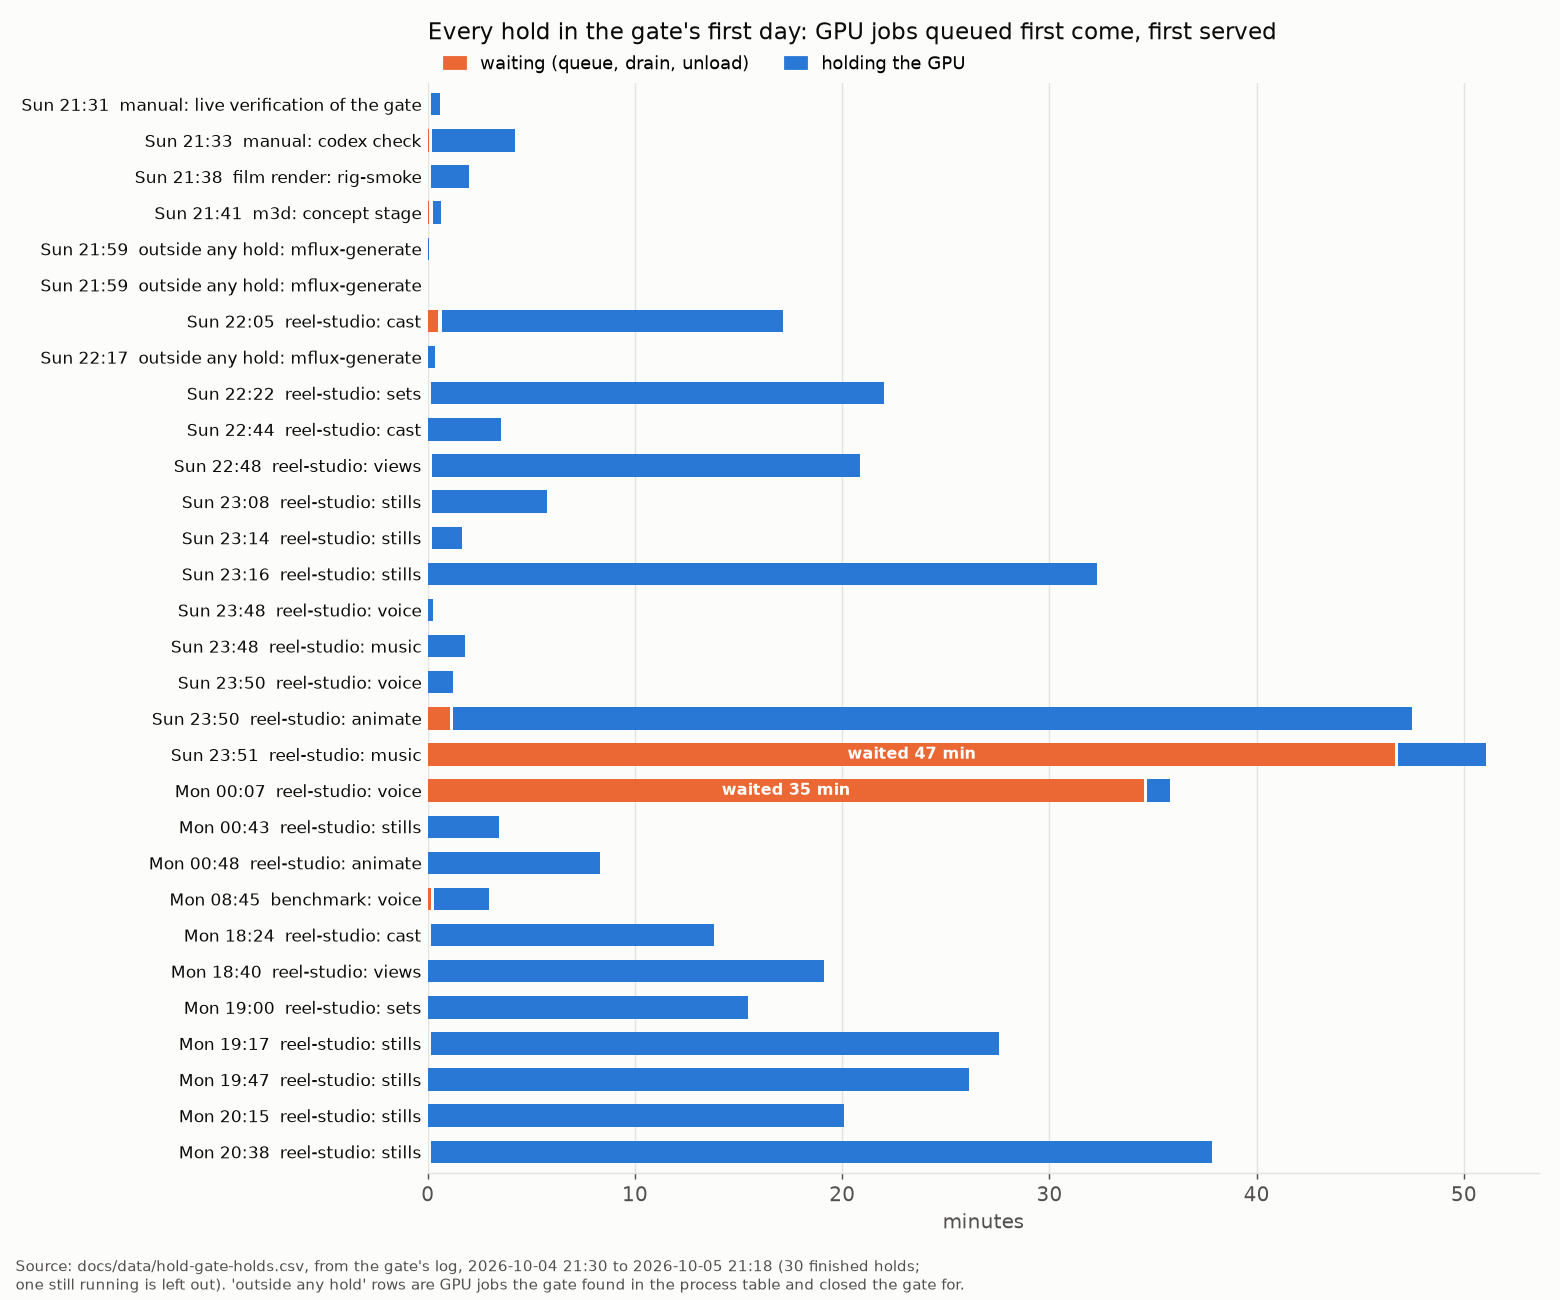
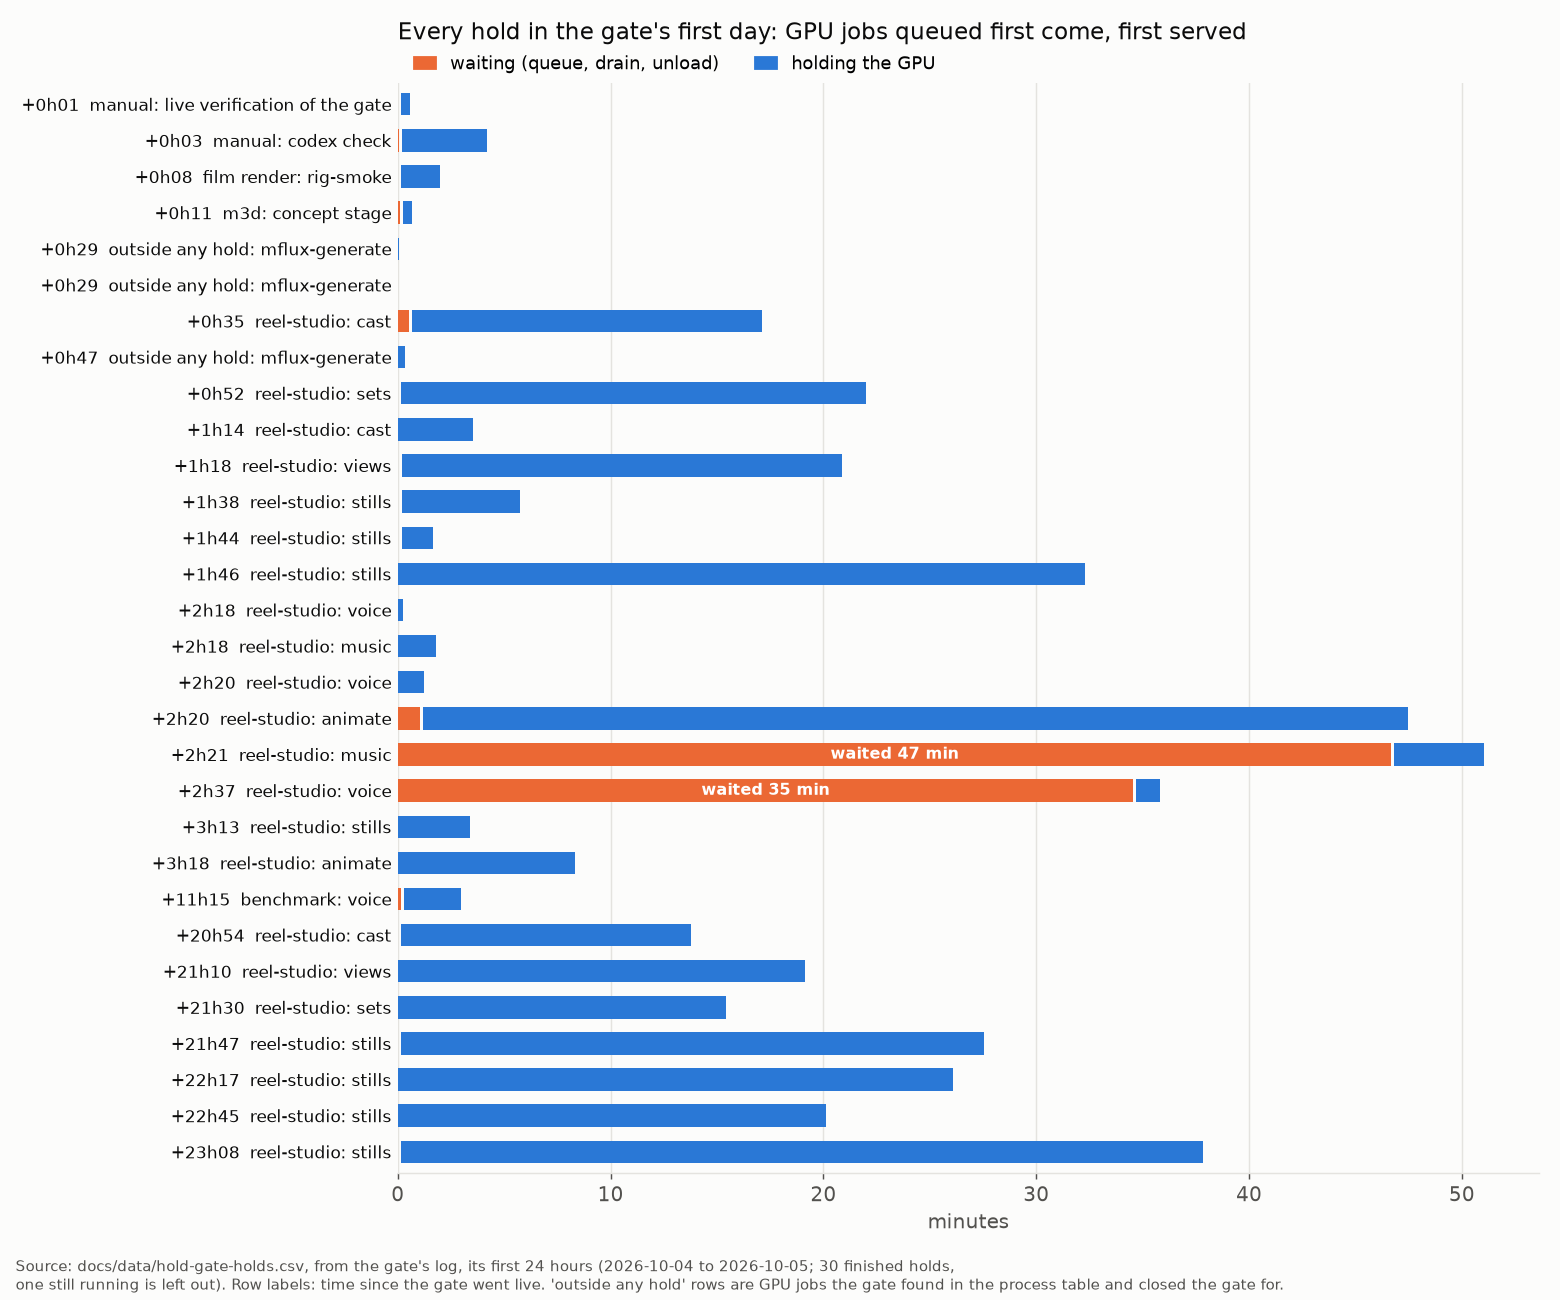
Remove process docs and private references

diff --git a/extensions/hold.ts b/extensions/hold.ts
@@ -7,16 +7,16 @@
 // not, waits with a status line, then sends the call the moment the hold ends. Nothing is lost and nothing needs
 // re-sending: a message typed during a 40-minute render simply goes out after it.
 //
-// Why here and not only in film-rig.ts: film-rig's hook only knew LTX renders and only ran in sessions that load
+// Why here and not only in the film rig's pi hook: that hook only knew LTX renders and only ran in sessions that load
 // it; the rule (2026-10-04) is that nothing may force the model back while the GPU is deliberately held, for
-// any session and any reason (renders, m3d, `hold on`). Sessions on other providers (cloud models, a ds4-serve
-// engine on :8000) never wait. If the gate does not answer, the call goes ahead: the gate's own refusal (and pi's
+// any session and any reason (renders, m3d, `hold on`). Sessions on other providers (cloud models, an engine
+// run by itself on :8000) never wait. If the gate does not answer, the call goes ahead: the gate's own refusal (and pi's
 // retry, which comes back through this hook) is the backstop.
 //
 // Compaction calls the model directly, outside the agent loop, so session_before_compact waits the same way.
 //
-// Symlinked into ~/.pi/agent/extensions/ (global); the film rig's director launcher (local-video, rig/film-pi.sh)
-// loads it explicitly next to film-rig.ts.
+// Symlinked into ~/.pi/agent/extensions/ (global); the film rig's director launcher (in local-video) loads it
+// explicitly next to its own extension.
 import type { ExtensionAPI, ExtensionContext } from "@earendil-works/pi-coding-agent";
 import * as path from "node:path";
 

diff --git a/docs/charts/make_charts.py b/docs/charts/make_charts.py
@@ -7,13 +7,12 @@
 
     docs/charts/make_charts.py          # writes docs/media/hold-live-checks.png and hold-first-day.png
 
-The CSVs are the hold gate's own log (~/.ds4/hold-gate.log) from 2026-10-04 21:30 to 2026-10-05 21:18, reduced to
-one row per hold, refusal and unload, with job names shortened and per-machine details removed.
+The CSVs are the hold gate's own log for its first 24 hours (2026-10-04 to 2026-10-05), reduced to one row per hold,
+refusal and unload, with job names shortened and per-machine details removed. Times are seconds since the gate went
+live (columns ending in _s), not clock times.
 """
 import csv
 import pathlib
-from datetime import datetime, timedelta
-
 import matplotlib
 
 matplotlib.use("Agg")
@@ -35,7 +34,7 @@ plt.rcParams.update({
 
 
 def when(s):
-    return datetime.fromisoformat(s) if s else None
+    return float(s) if s else None  # seconds since the gate went live
 
 
 def rows(name):
@@ -43,9 +42,9 @@ def rows(name):
         return list(csv.DictReader(f))
 
 
-holds = [dict(r, requested=when(r["requested"]), granted=when(r["granted"]), released=when(r["released"]))
+holds = [dict(r, requested=when(r["requested_s"]), granted=when(r["granted_s"]), released=when(r["released_s"]))
          for r in rows("hold-gate-holds.csv")]
-refusals = [dict(r, time=when(r["time"])) for r in rows("hold-gate-refusals.csv")]
+refusals = [dict(r, time=when(r["t_s"])) for r in rows("hold-gate-refusals.csv")]
 
 
 def style(ax):
@@ -56,10 +55,9 @@ def style(ax):
     ax.set_axisbelow(True)
 
 
-# ---------- 1. the live checks, 2026-10-04 21:30-21:42 ----------
+# ---------- 1. the live checks, the gate's first 12 minutes ----------
 live = holds[:4]
-t0 = datetime(2026, 10, 4, 21, 30)
-sec = lambda t: (t - t0).total_seconds()
+sec = lambda t: t
 # The two pi answers are not in the gate's log (pi does not report to it); docs/hold.md records them: a prompt sent
 # during the first manual hold answered 9 s after `hold off`, one sent mid-render answered 17 s after the release.
 answers = {0: 9, 2: 17}
@@ -71,7 +69,7 @@ for i, h in enumerate(live):
     y = len(live) - 1 - i
     ax.barh(y, sec(h["granted"]) - sec(h["requested"]), left=sec(h["requested"]), height=0.5, color=WAIT)
     ax.barh(y, sec(h["released"]) - sec(h["granted"]), left=sec(h["granted"]), height=0.5, color=HELD)
-    held = (h["released"] - h["granted"]).total_seconds()
+    held = h["released"] - h["granted"]
     mins = f"{int(held // 60)}m{int(held % 60):02d}s" if held >= 60 else f"{int(held)} s"
     ax.text(sec(h["released"]) + 6, y + 0.3, f"held {mins}", va="center", color=INK2, fontsize=10)
     for r in refusals:
@@ -83,10 +81,10 @@ for i, h in enumerate(live):
         ax.text(t + 6, y - 0.22, f"pi answers +{answers[i]} s", va="center", color=INK, fontsize=10)
 ax.set_yticks(range(len(live)), names[::-1])
 ticks = range(0, 13 * 60, 60)
-ax.set_xticks(list(ticks), [f"21:{30 + m // 60:02d}" for m in ticks])
+ax.set_xticks(list(ticks), [f"{m // 60}" for m in ticks])
 ax.set_xlim(40, 12 * 60 + 30)
 ax.set_ylim(-0.6, len(live) - 0.4)
-ax.set_xlabel("2026-10-04, local time")
+ax.set_xlabel("minutes since the gate went live (2026-10-04)")
 ax.set_title("The hold gate's live checks: nothing reached the model while held", loc="left", color=INK,
              fontsize=13, pad=44)
 ax.legend(handles=[Patch(color=WAIT, label="drain + unload (request → grant)"),
@@ -108,14 +106,15 @@ style(ax)
 labels = []
 for i, h in enumerate(done):
     y = len(done) - 1 - i
-    wait = (h["granted"] - h["requested"]).total_seconds() / 60
-    held = (h["released"] - h["granted"]).total_seconds() / 60
+    wait = (h["granted"] - h["requested"]) / 60
+    held = (h["released"] - h["granted"]) / 60
     ax.barh(y, wait, height=0.62, color=WAIT)
     ax.barh(y, held, left=wait + (0.15 if wait else 0), height=0.62, color=HELD)
     if wait >= 5:
         ax.text(wait / 2, y, f"waited {wait:.0f} min", va="center", ha="center", color="white", fontsize=9,
                 fontweight="bold")
-    labels.append(f"{h['requested']:%a %H:%M}  {h['label']}")
+    m = int(h["requested"] // 60)
+    labels.append(f"+{m // 60}h{m % 60:02d}  {h['label']}")
 ax.set_yticks(range(len(done)), labels[::-1], fontsize=9.5)
 ax.set_ylim(-0.6, len(done) - 0.4)
 ax.set_xlabel("minutes")
@@ -124,8 +123,8 @@ ax.set_title("Every hold in the gate's first day: GPU jobs queued first come, fi
 ax.legend(handles=[Patch(color=WAIT, label="waiting (queue, drain, unload)"),
                    Patch(color=HELD, label="holding the GPU")],
           loc="upper left", bbox_to_anchor=(0, 1.04), ncol=2, frameon=False, fontsize=10, handlelength=1.2)
-fig.text(0.01, 0.008, f"Source: docs/data/hold-gate-holds.csv, from the gate's log, 2026-10-04 21:30 to 2026-10-05 21:18 "
-         f"({len(done)} finished holds;\none still running is left out). 'outside any hold' rows are GPU jobs the gate found in the "
+fig.text(0.01, 0.008, f"Source: docs/data/hold-gate-holds.csv, from the gate's log, its first 24 hours (2026-10-04 to 2026-10-05; "
+         f"{len(done)} finished holds,\none still running is left out). Row labels: time since the gate went live. 'outside any hold' rows are GPU jobs the gate found in the "
          "process table and closed the gate for.", color=INK2, fontsize=8.5)
 fig.tight_layout(rect=(0, 0.035, 1, 1))
 fig.savefig(MEDIA / "hold-first-day.png")

diff --git a/hold/procs.go b/hold/procs.go
@@ -90,7 +90,7 @@ var stillPath = regexp.MustCompile(`/local-video/bin/still$`)
 // gpuJob names the GPU program a command line runs, or "". It reads the program being run (the first few non-flag
 // argv items, so `zsh stories/story.sh`, `python -m ltx_pipelines` and `/usr/bin/time -l hy3d generate` are found),
 // never a word anywhere in the arguments, the way m3d's is_gpu_job does. Long-running servers (ComfyUI, mlx-serve,
-// the dictation daemon) are left out on purpose: alive is not busy, and an idle server must not keep the LLM off.
+// a dictation daemon) are left out on purpose: alive is not busy, and an idle server must not keep the LLM off.
 func gpuJob(cmd string) string {
 	argv := strings.Fields(cmd)
 	if len(argv) == 0 {

diff --git a/tools/codex-smoke.py b/tools/codex-smoke.py
@@ -9,7 +9,7 @@ containing "rig-ok", cat it, and report what it printed. A model passes when the
 file is right AND its final answer quotes it. That takes at least two tool calls
 and three requests, so it also exercises Codex replaying the model's earlier
 reasoning and tool output, which a one-shot curl never does (see "Verify through
-pi, never curl" in AGENTS.md; the same applies to Codex).
+the agent, never curl" in the README; the same applies to Codex).
 
 Runs `codex exec` against a throwaway CODEX_HOME holding only the provider and
 model catalog read from ~/.codex/config.toml, so test sessions stay out of the

diff --git a/hold/gate.go b/hold/gate.go
@@ -12,7 +12,7 @@ package main
 // llama-swap, and only then is granted; holds queue first come, first served. A hold dies with its processes (pid
 // plus start time, checked every ScanEvery), so a crashed job cannot keep the LLM off. Why: the rule of
 // 2026-10-04 is that nothing may bring the model back while the GPU is deliberately held, for every client (pi,
-// Codex, LDR, curl), not just pi's film-rig hook, which only knew LTX renders.
+// Codex, LDR, curl), not just the film rig's pi hook, which only knew LTX renders.
 
 import (
 	"context"

diff --git a/README.md b/README.md
@@ -5,7 +5,7 @@ reloading into a video render, and a serial plan → code → verify → review 
 
 ![A real terminal session on 2026-10-05: hold status shows a reel render holding the GPU; a chat-completions request to the gate gets 503 Service Unavailable with Retry-After 30; /running shows nothing loaded before and after; the gate's log records the refusal](docs/media/hold-live-session.svg)
 
-*A real session, replayed: on 2026-10-05 at 21:42 a [reel-studio](https://github.com/mthomas100/reel-studio)
+*A real session, replayed: on 2026-10-05 a [reel-studio](https://github.com/mthomas100/reel-studio)
 render held the GPU. A request that would have loaded an 80 GiB model got a 503 naming the holder, and nothing was
 loaded. Captured output: [docs/data/live-held-session-2026-10-05.txt](docs/data/live-held-session-2026-10-05.txt);
 SVG drawn by [make_terminal_svg.py](docs/charts/make_terminal_svg.py), no text reworded.*
@@ -142,9 +142,10 @@ What makes it robust rather than just a lock:
 
 ![Every hold in the gate's first day as horizontal bars: time waiting in the queue or for the drain and unload, then time holding the GPU; two reel-studio jobs waited 47 and 35 minutes](docs/media/hold-first-day.png)
 
-*Every hold from the gate's log, 2026-10-04 21:30 to 2026-10-05 21:18 ([data](docs/data/hold-gate-holds.csv)).
-The unload before a grant took 0.2 to 7.7 s ([data](docs/data/hold-gate-unloads.csv)). One caveat the log shows: at 22:05,
-during a 31 s drain, eight pi calls were refused (they retried) rather than waiting. A pi session waits only once it
+*Every hold from the gate's log in its first 24 hours, 2026-10-04 to 2026-10-05, timed from the moment it went live
+([data](docs/data/hold-gate-holds.csv)). The unload before a grant took 0.2 to 7.7 s
+([data](docs/data/hold-gate-unloads.csv)). One caveat the log shows: 35 minutes in, during a 31 s drain, eight pi
+calls were refused (they retried) rather than waiting. A pi session waits only once it
 has loaded `hold.ts`; sessions already open when the gate went in need `/reload`.*
 
 The CLI:
@@ -199,8 +200,8 @@ for review). Those rows have since been replaced by the pairing shown above, whi
 ## One model registry, generated configs
 
 Every model is one row in a registry: 11 pipe-separated fields (`target|engine|family|ctx|trust|dl|label|use|gguf|vision|drafter`)
-plus optional launch arguments. On the author's Mac the registry lives in `ds4-serve`, a launcher script in a local
-ds4 checkout; anywhere else, point `RIG_SPEC` at a file in the same format ([example](examples/registry.example)).
+plus optional launch arguments. On the author's Mac a model launcher script (not part of this repo) prints it; anywhere
+else, point `RIG_SPEC` at a file in the same format ([example](examples/registry.example)).
 Two generators derive everything else from it, so there is never a second model list to drift:
 
 - [`tools/gen-swap-config.sh`](tools/gen-swap-config.sh) writes `config/llama-swap.yaml`: commands per engine,
@@ -252,7 +253,7 @@ git clone https://github.com/mthomas100/local-rig ~/repos/local-rig
 cd ~/repos/local-rig
 git config core.hooksPath hooks
 
-# 1. describe your models (or use ds4-serve's registry via DS4_DIR)
+# 1. describe your models
 cp examples/registry.example my-registry      # edit: your GGUF paths, contexts, trust
 export RIG_SPEC=$PWD/my-registry DS4_DIR=~/repos/ds4   # DS4_DIR: where ds4-server, llama-server and gguf/ live
 
@@ -310,20 +311,18 @@ all pass
 
 ## Status and limitations
 
-- **One machine, in daily use.** The gate has been live on the author's Mac since 2026-10-04 21:30. It is not a
+- **One machine, in daily use.** The gate has been live on the author's Mac since 2026-10-04. It is not a
   general product: the GPU-job patterns in [`hold/procs.go`](hold/procs.go) name the author's tools (ltx-2-mlx,
   vidgen, mflux, hy3d, m3d stages). Edit `gpuJob()` for yours.
 - **`hold wait --timeout` rounds up to the gate's 30 s long poll:** `--timeout 5s` returned after 30.1 s on
   2026-10-05.
 - **macOS only.** Process liveness reads `ps -o lstart=`; the launchd jobs are macOS.
-- **The registry script is not included.** `ds4-serve` lives in a private ds4 checkout; `RIG_SPEC` plus
+- **Bring your own registry.** The author's model launcher is not part of this repo; `RIG_SPEC` plus
   `examples/registry.example` stand in for it. ds4-specific flags in the generator assume ds4's `ds4-server`.
 - **Codex and other non-pi clients are refused, not queued.** They see a 503 with `Retry-After: 30`; Codex retries.
   pi sessions opened before `hold.ts` was linked need `/reload` to wait instead.
 - **The gate's own restart cuts streams** that pass through it; restart only while `hold status` says open.
 - **/pcv timing** was measured once, on 2026-09-12, with models that have since been replaced.
-- Not included in this repo: a model-wiring skill for the author's machine, the web-research benchmark, and the
-  internal design brief the rig was built from.
 
 ## Related repos
 

diff --git a/docs/hold.md b/docs/hold.md
@@ -1,7 +1,7 @@
 # hold — one lock for this Mac's GPU (2026-10-04)
 
-**Status: live since 2026-10-04 21:30** (`hold/switch-over.sh in`, at a quiet moment after a film
-render finished). Checked live the same evening, through pi and the real qwen38: a prompt through the
+**Status: live since 2026-10-04** (`hold/switch-over.sh in`, at a quiet moment after a film
+render finished). Checked live the same day, through pi and the real qwen38: a prompt through the
 gate; `hold on` unloaded qwen38, and for 24 s curl and `/upstream/qwen38/logs` got 503, `decide gpu` ([local-decision](https://github.com/mthomas100/local-decision)) and `m3d gpu`
 ([local-3d](https://github.com/mthomas100/local-3d)) reported the hold, llama-swap received 0 model requests and a pi prompt waited, then answered 9 s after `hold off`;
 Codex's `/v1/responses` calls were refused (it retried, honouring Retry-After) and loaded nothing; the 2-clip
@@ -13,7 +13,8 @@ already open need `/reload` (or a restart) to wait instead of being refused.
 
 This Mac can do one heavy thing at a time. A loaded local LLM (qwen38 wires about 80 GiB) and an LTX render, an
 image model or an m3d stage do not fit together, and an LLM prompted beside a render slows it about 9x (film rig,
-2026-09-23). Before this, the only guard was film-rig.ts's pi hook: it held pi's model calls while an LTX render
+2026-09-23). Before this, the only guard was a pi hook in the film rig
+([local-video](https://github.com/mthomas100/local-video)): it held pi's model calls while an LTX render
 process existed. It knew nothing of m3d or of an unload done on purpose, it started only once the render process
 existed (a busy session could reload the model in the gap after the unload and stall the film), and it bound pi
 alone: Codex, Local Deep Research and curl went straight to llama-swap, which loads whatever it is asked for.
@@ -38,14 +39,14 @@ One lock. Model calls share it while it is free; a GPU job (a render, an m3d sta
   instead of queueing behind it: run-queue.sh > story.sh > vidgen > ltx-2-mlx is one hold.
 - **GPU jobs that took no hold** (a render by hand, an old script: ltx-2-mlx, story.sh, run-queue.sh, redo.sh,
   vidgen, bin/still, mflux-generate, hy3d generate/shape/paint, comfy3d.py, skintokens-cli) close the gate too; the
-  model is unloaded once the calls in flight finish. Long-running servers (ComfyUI, mlx-serve, the dictation daemon)
+  model is unloaded once the calls in flight finish. Long-running servers (ComfyUI, mlx-serve, a dictation daemon)
   do not count: alive is not busy.
 - **While held**, the gate checks llama-swap now and then; a model loaded behind its back (someone on :8091) is
   unloaded again.
 
 ## Who waits, who is refused
 
-- **pi** (`extensions/hold.ts`, global, and loaded by `rig/film-pi.sh`): before every model call of a session whose
+- **pi** (`extensions/hold.ts`, global, and loaded explicitly by the film rig's director launcher): before every model call of a session whose
   model is served through the gate, it asks the gate and waits with a status line (`⏸ LLM held · …`). A message
   typed during a 40-minute render goes out by itself when the render ends; a hold taken between two of an agent's
   steps pauses it between them. Sessions on other providers never wait.
@@ -94,4 +95,4 @@ runs the command anyway with a warning (a missing gate also means no model can b
 
 `hold/switch-over.sh out`, or by hand: bootout `com.example.local-rig.hold-gate`, set llama-swap's plist back to
 `--listen 127.0.0.1:8090`, bootstrap it. Every
-client works as before; film-rig.ts and m3d fall back to their own unload-and-settle when `hold` cannot reach a gate.
+client works as before; the film rig and m3d fall back to their own unload-and-settle when `hold` cannot reach a gate.
